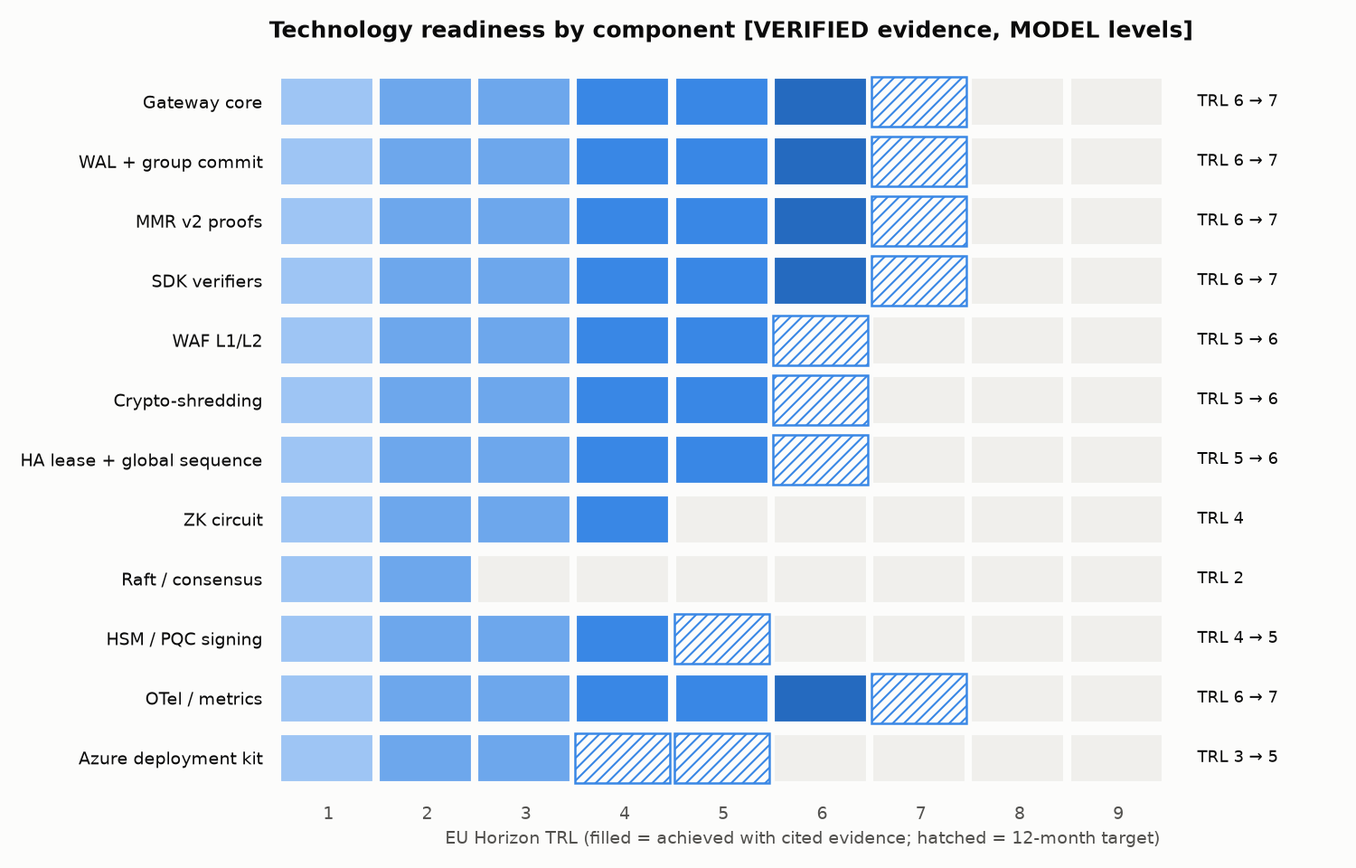
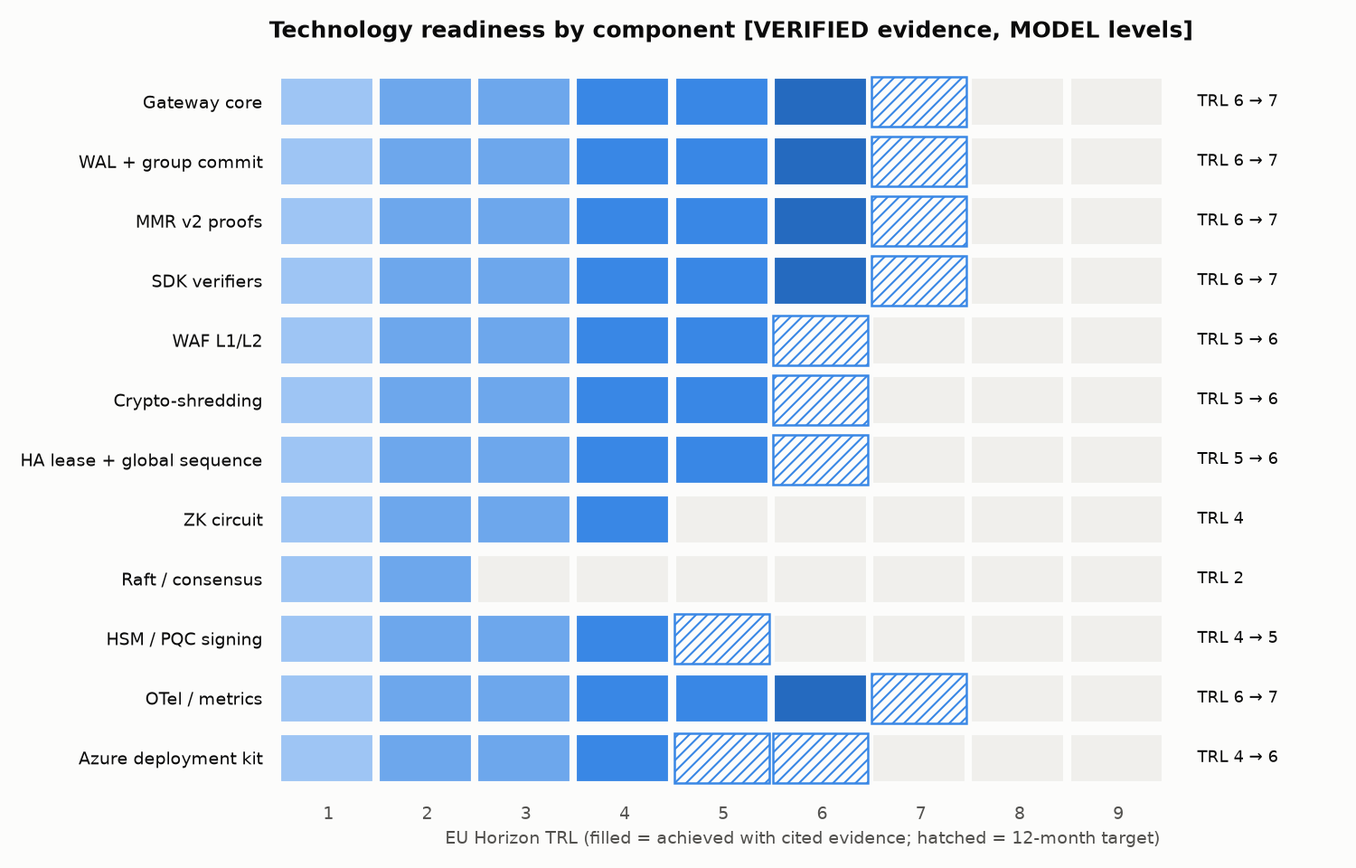
Publish gateway to PyPI; fold PR #208's Azure kit into investor_packs (#209)
* feat(release): publish the gateway to PyPI; investor_packs: fold in the Azure kit (#208)

Publish gateway to PyPI
------------------------
Add .github/workflows/publish_pypi_gateway.yml. Until now no workflow ever
published `aegis-latent-core` (the gateway: aegis + aegis_server +
integrations) to PyPI — publish_pypi.yml only publishes the SDK
(`aegis-latent-sdk`), and release.yml's build-python job builds the gateway
only as a GitHub Release asset. docs/RELEASE_STATUS.md and AGENTS.md record
that gap for 5.0.0 and 5.0.1. This closes it for the next tag: same
provenance/build/publish shape as publish_pypi.yml (signed-tag verification,
version-matches-tag check, twine check, a wheel-install-and-import smoke
test, OIDC trusted publishing), gated on its own `pypi-gateway` GitHub
environment and the existing AEGIS_TRUSTED_PUBLISHING_ENABLED variable.
Requires a PyPI Trusted Publisher for project `aegis-latent-core` pointed at
that environment — a PyPI-side, owner action this workflow cannot perform.

investor_packs: fold in the Azure kit (PR #208)
------------------------------------------------
PR #208 committed deploy/azure/phase0, a VM kit, and one live deployment
and measurement (Standard_B2als_v2, Chile Central, 2026-09-26), closing part
of REG-H07 after both investor packs' §0 was written. Updated in both
languages, from the same engine:
- D2 TRL: "Azure deployment kit" moves from TRL 3 to TRL 4 (now) and target
[…]

Changed region(s): [[0.3987, 0.8438, 0.5213, 0.9062], [0.552, 0.8438, 0.644, 0.9062]]

diff --git a/investor_packs/paquete_inversor_aegis_es/paquete_inversor_aegis.html b/investor_packs/paquete_inversor_aegis_es/paquete_inversor_aegis.html
@@ -231,7 +231,7 @@ details.code code { background: none; padding: 0; font-size: 0.74rem; line-heigh
 <ul>
   <li><strong>El núcleo del gateway queda en 6, no en 7.</strong> La imagen publicada corre con su postura endurecida en CI, pero todavía no existe ningún entorno de cliente.</li>
   <li><strong>“Lease de HA + secuencia global” es una fila nueva, en 5.</strong> La v5.0.1 lo implementa y el CI lo prueba contra Redis y PostgreSQL reales, con un failover por SIGKILL medido en 4,2–5,2 s<span class="chip v" title="VERIFIED (verificado)">V</span> con un lease de 5 s<span class="chip v" title="VERIFIED (verificado)">V</span>. Raft sigue siendo código huérfano, en 2. Esto corrige el “sin HA” del §0 sin afirmar HA de producción (D10.4).</li>
-  <li><strong>El kit de despliegue en Azure queda en 3.</strong> El código de infraestructura de la fase 0 y el archivo de precios que menciona el §0 no están en el repositorio.</li>
+  <li><strong>El kit de despliegue en Azure pasó de 3 a 4.</strong> Desde que se escribió el §0 se incorporaron <code>deploy/azure/phase0</code> y un kit de VM, y se midió un despliegue (Standard_B2als_v2, Chile Central, 26/09/2026): modo estricto activo, <code>verify.sh</code> aprobado, un registro firmado llegó al WAL. Las cifras de US$ 17,54 <span class="ars">(ARS 26.652)</span>/US$ 44,77 <span class="ars">(ARS 68.028)</span> por mes del §0 siguen sin medirse; el precio de lista de la propia VM, US$0,0526<span class="chip v" title="VERIFIED (verificado)">V</span>/hora (≈US$38<span class="chip v" title="VERIFIED (verificado)">V</span>/mes antes del disco), se verificó ese mismo día.</li>
 </ul>
 <div class="tablewrap"><table><caption>D2 Matriz TRL <span class="chip m">M</span></caption>
 <thead><tr><th>Componente</th><th>TRL hoy</th><th>Evidencia</th><th>Brecha a TRL+1</th><th>Semanas de ingeniería</th><th>Externo</th><th>Costo de cierre</th></tr></thead><tbody>
@@ -246,11 +246,11 @@ details.code code { background: none; padding: 0; font-size: 0.74rem; line-heigh
 <tr><td>Raft / consenso</td><td class="num">2</td><td>módulo huérfano; reemplazado por el diseño de lease AD-17</td><td>fuera de la hoja de ruta</td><td class="num">0</td><td class="num">US$ 0<br><span class="ars">(ARS 0,00)</span></td><td class="num">US$ 0<br><span class="ars">(ARS 0,00)</span></td></tr>
 <tr><td>Firma HSM / PQC</td><td class="num">4</td><td>camino PKCS#11; ML-DSA-65 firma en 173 us y verifica en 62 us; Managed HSM excluido: US$ 2.342<br><span class="ars">(ARS 3,6 M)</span> por mes</td><td>prueba de integración con una clave respaldada por HSM en Key Vault Premium</td><td class="num">4</td><td class="num">US$ 500<br><span class="ars">(ARS 759.750)</span></td><td class="num">US$ 9.700<br><span class="ars">(ARS 14,7 M)</span></td></tr>
 <tr><td>OTel / métricas</td><td class="num">6</td><td>/metrics verificado en la imagen publicada por el recolector de evidencia (REG-D86)</td><td>tableros del piloto + runbook de alertas ejercitado</td><td class="num">1</td><td class="num">US$ 0<br><span class="ars">(ARS 0,00)</span></td><td class="num">US$ 2.300<br><span class="ars">(ARS 3,5 M)</span></td></tr>
-<tr><td>Kit de despliegue en Azure</td><td class="num">3</td><td>deploy/azure solo tiene aks/; las salvaguardas de la fase 0 no están en el repositorio (REG-H07)</td><td>IaC de la fase 0 en el repositorio + alertas de presupuesto + la lectura de un despliegue real</td><td class="num">2</td><td class="num">US$ 540<br><span class="ars">(ARS 820.530)</span></td><td class="num">US$ 5.140<br><span class="ars">(ARS 7,8 M)</span></td></tr>
+<tr><td>Kit de despliegue en Azure</td><td class="num">4</td><td>kit de VM desplegado y medido una vez (Standard_B2als_v2, Chile Central, 26/09/2026): modo estricto activo, verify.sh aprobado, un registro firmado confirmado (REG-H07)</td><td>correr phase0_guardrails.sh de punta a punta, observar una alerta de presupuesto disparada, repetir en un segundo tamaño/región</td><td class="num">1</td><td class="num">US$ 200<br><span class="ars">(ARS 303.900)</span></td><td class="num">US$ 2.500<br><span class="ars">(ARS 3,8 M)</span></td></tr>
 </tbody></table></div>
-<p>Cerrar cada brecha hasta el nivel siguiente cuesta US$ 87.540 <span class="ars">(ARS 133 M)</span><span class="chip m" title="MODEL (modelo)">M</span> en 35<span class="chip m" title="MODEL (modelo)">M</span> semanas de ingeniería, sin contar la auditoría diferida del sistema de pruebas ZK (US$ 67.600 <span class="ars">(ARS 103 M)</span><span class="chip m" title="MODEL (modelo)">M</span>). La semana de ingeniería se costea en US$ 2.300 <span class="ars">(ARS 3,5 M)</span><span class="chip m" title="MODEL (modelo)">M</span>.</p>
+<p>Cerrar cada brecha hasta el nivel siguiente cuesta US$ 84.900 <span class="ars">(ARS 129 M)</span><span class="chip m" title="MODEL (modelo)">M</span> en 34<span class="chip m" title="MODEL (modelo)">M</span> semanas de ingeniería, sin contar la auditoría diferida del sistema de pruebas ZK (US$ 67.600 <span class="ars">(ARS 103 M)</span><span class="chip m" title="MODEL (modelo)">M</span>). La semana de ingeniería se costea en US$ 2.300 <span class="ars">(ARS 3,5 M)</span><span class="chip m" title="MODEL (modelo)">M</span>.</p>
 <figure class="plate"><img src="img/04_trl_heatmap.png" alt="Mapa de calor TRL: las celdas llenas son niveles alcanzados con evidencia citada; las rayadas, metas a 12 meses." loading="lazy"><figcaption>Mapa de calor TRL: las celdas llenas son niveles alcanzados con evidencia citada; las rayadas, metas a 12 meses.</figcaption></figure>
-<p class="census"><span class="lbl">Censo de etiquetas</span> <span class="chip v">V</span> 2 · <span class="chip m">M</span> 76 · <span class="chip h">H</span> 0</p>
+<p class="census"><span class="lbl">Censo de etiquetas</span> <span class="chip v">V</span> 4 · <span class="chip m">M</span> 76 · <span class="chip h">H</span> 0</p>
 </section>
 
 <section id="d3">
@@ -321,6 +321,7 @@ details.code code { background: none; padding: 0; font-size: 0.74rem; line-heigh
 <tr><td><code>vm_d4s_v5_hourly_usd</code></td><td class="num">US$ 0,192 <span class="ars">(ARS 291,74)</span></td><td><span class="chip v">V</span></td><td>API Azure Retail Prices, Standard_D4s_v5 Linux, eastus, meterId db8c0962-f3f8-5b44-99aa-f3c7c1e668c8, consultada el 25/09/2026</td></tr>
 <tr><td><code>blob_hot_lrs_gb_month_usd</code></td><td class="num">US$ 0,0208 <span class="ars">(ARS 31,61)</span></td><td><span class="chip v">V</span></td><td>API Azure Retail Prices, Blob Hot LRS, datos almacenados, primer tramo, eastus, meterId 272492b3-1c92-4a5f-bee9-52a8e10ca514, consultada el 25/09/2026</td></tr>
 <tr><td><code>fx_ars_per_usd</code></td><td class="num">1.519,5</td><td><span class="chip v">V</span></td><td>API del BCRA Estadísticas Cambiarias v1.0, Cotizaciones/USD, fecha 24/09/2026 (tipoCotizacion), consultada el 25/09/2026; solo la usa la edición en castellano para mostrar pesos entre paréntesis</td></tr>
+<tr><td><code>azure_b2als_v2_chilecentral_hourly_usd</code></td><td class="num">US$ 0,0526 <span class="ars">(ARS 79,93)</span></td><td><span class="chip v">V</span></td><td>evidence/benchmarks/azure/azure_Standard_B2als_v2_chilecentral_2026-09-26.json (SHA-256 762016d9...); precio de lista obtenido con aegis_azure_kit.py estimate, 26/09/2026; solo la VM, sin el disco adjunto</td></tr>
 <tr><td><code>commits_per_s_100_threads</code></td><td class="num">1.482,37</td><td><span class="chip v">V</span></td><td>evidence/benchmarks/benchmarks_5.0.1_2026-09-24.json, VM compartida de 4 vCPU, commit_forensic con append al MMR + HMAC + fsync del WAL</td></tr>
 <tr><td><code>commit_p50_ms</code></td><td class="num">0,617</td><td><span class="chip v">V</span></td><td>mismo artefacto, n=1000</td></tr>
 <tr><td><code>commit_p99_ms</code></td><td class="num">1,216</td><td><span class="chip v">V</span></td><td>mismo artefacto, n=1000</td></tr>
@@ -452,7 +453,7 @@ details.code code { background: none; padding: 0; font-size: 0.74rem; line-heigh
 <tr><td>P90</td><td class="num">US$ 90,3 mil<br><span class="ars">(ARS 137 M)</span></td><td class="num">US$ 301,5 mil<br><span class="ars">(ARS 458 M)</span></td><td class="num">US$ 653,4 mil<br><span class="ars">(ARS 993 M)</span></td><td class="num">US$ 1,16 M<br><span class="ars">(ARS 1.766 M)</span></td><td class="num">US$ 1,83 M<br><span class="ars">(ARS 2.788 M)</span></td></tr>
 </tbody></table></div>
 <p>La banda de Monte Carlo sortea de forma independiente la conversión, el churn, la expansión, el ACV y el volumen de pilotos, a partir de distribuciones triangulares alrededor del escenario base. Su P10–P90 del AF5, de US$ 0,79–1,83 M <span class="ars">(ARS 1.200–2.781 M)</span><span class="chip m" title="MODEL (modelo)">M</span>, es más angosta que el rango entre el pesimista y el optimista porque cada escenario con nombre lleva todas las palancas a su extremo al mismo tiempo.</p>
-<p class="census"><span class="lbl">Censo de etiquetas</span> <span class="chip v">V</span> 13 · <span class="chip m">M</span> 78 (incl. 1 M·A) · <span class="chip h">H</span> 479</p>
+<p class="census"><span class="lbl">Censo de etiquetas</span> <span class="chip v">V</span> 14 · <span class="chip m">M</span> 78 (incl. 1 M·A) · <span class="chip h">H</span> 479</p>
 </section>
 
 <section id="d5">
@@ -735,6 +736,17 @@ FX_ARS = inp(
     &quot;read 2026-09-25; used only by the Spanish edition to show pesos in parentheses&quot;,
     &quot;API del BCRA Estadísticas Cambiarias v1.0, Cotizaciones/USD, fecha 24/09/2026 (tipoCotizacion), &quot;
     &quot;consultada el 25/09/2026; solo la usa la edición en castellano para mostrar pesos entre paréntesis&quot;,
+)
+AZURE_VM_HOURLY = inp(
+    &quot;azure_b2als_v2_chilecentral_hourly_usd&quot;,
+    0.0526,
+    &quot;VERIFIED&quot;,
+    &quot;evidence/benchmarks/azure/azure_Standard_B2als_v2_chilecentral_2026-09-26.json &quot;
+    &quot;(SHA-256 762016d9...); retail list price fetched via aegis_azure_kit.py estimate, &quot;
+    &quot;2026-09-26; VM only, excludes the attached disk&quot;,
+    &quot;evidence/benchmarks/azure/azure_Standard_B2als_v2_chilecentral_2026-09-26.json &quot;
+    &quot;(SHA-256 762016d9...); precio de lista obtenido con aegis_azure_kit.py estimate, &quot;
+    &quot;26/09/2026; solo la VM, sin el disco adjunto&quot;,
 )
 THROUGHPUT_100T = inp(
     &quot;commits_per_s_100_threads&quot;,
@@ -1805,12 +1817,13 @@ TRL = [
     ),
     (
         &quot;Azure deployment kit&quot;,
-        3,
-        5,
-        &quot;deploy/azure has aks/ only; phase-0 guardrails not in repo (REG-H07)&quot;,
-        &quot;commit phase-0 IaC + budget alerts + one real deployment readback&quot;,
-        2,
-        540,
+        4,
+        6,
+        &quot;VM kit deployed and measured once (Standard_B2als_v2, Chile Central, 2026-09-26): &quot;
+        &quot;strict mode started, verify.sh passed, one signed record committed (REG-H07)&quot;,
+        &quot;run phase0_guardrails.sh end to end, observe a budget alert fire, repeat on a second size/region&quot;,
+        1,
+        200,
     ),
 ]
 TRL_ES = {  # component: (name, evidence, gap); {hsm} is filled at render time
@@ -1871,8 +1884,10 @@ TRL_ES = {  # component: (name, evidence, gap); {hsm} is filled at render time
     ),
     &quot;Azure deployment kit&quot;: (
         &quot;Kit de despliegue en Azure&quot;,
-        &quot;deploy/azure solo tiene aks/; las salvaguardas de la fase 0 no están en el repositorio (REG-H07)&quot;,
-        &quot;IaC de la fase 0 en el repositorio + alertas de presupuesto + la lectura de un despliegue real&quot;,
+        &quot;kit de VM desplegado y medido una vez (Standard_B2als_v2, Chile Central, 26/09/2026): &quot;
+        &quot;modo estricto activo, verify.sh aprobado, un registro firmado confirmado (REG-H07)&quot;,
+        &quot;correr phase0_guardrails.sh de punta a punta, observar una alerta de presupuesto disparada, &quot;
+        &quot;repetir en un segundo tamaño/región&quot;,
     ),
 }
 
@@ -2930,7 +2945,8 @@ if __name__ == &quot;__main__&quot;:
 <tr><td>Registro de marca</td><td class="miss">Falta</td><td>Fundador</td></tr>
 <tr><td>Estados contables y declaraciones impositivas</td><td class="miss">Falta</td><td>Todavía no hay sociedad (M1)</td></tr>
 <tr><td>Seguro de ciberriesgos y de responsabilidad profesional (E&amp;O)</td><td class="miss">Falta</td><td>Presupuestado en US$ 6 mil/año <span class="ars">(ARS 9,1 M/año)</span><span class="chip m" title="MODEL (modelo)">M</span></td></tr>
-<tr><td>Código de infraestructura de la fase 0 de Azure y archivo de precios verificado</td><td class="miss">Falta</td><td>REG-H07</td></tr>
+<tr><td>Script de la fase 0 de Azure y Bicep de presupuesto (<code>deploy/azure/phase0/</code>)</td><td class="ok">Existe</td><td>Incorporado el 26/09/2026; todavía no se corrió de punta a punta, así que ninguna alerta de presupuesto se disparó (REG-H07)</td></tr>
+<tr><td>Consumo mensual de Azure del fundador, verificado (US$ 17.54 <span class="ars">(ARS 2,7 M)</span>/US$ 44.77 <span class="ars">(ARS 6,8 M)</span> en el §0)</td><td class="miss">Falta</td><td>Sigue siendo un dato del fundador sin medir; REG-H07</td></tr>
 <tr><td>Contratos laborales o de locación de servicios</td><td class="miss">Falta</td><td>M3</td></tr>
 </tbody></table></div>
 
@@ -2974,8 +2990,9 @@ if __name__ == &quot;__main__&quot;:
 <tr><td>8</td><td>Ley de IA de la UE: “se aplica el 2/8/2026”</td><td>Correcto, y la fecha ya pasó; existió una propuesta para postergar las obligaciones de alto riesgo (su estado actual no se verificó acá)</td><td>El Marco A se reformula como “ya en marcha”, con un refutador</td></tr>
 <tr><td>9</td><td>Costos de pentest, SOC 2, escrow, abogados y segundo mantenedor</td><td>El repositorio tiene sus propias estimaciones (REG-H01–H05, H10); el segundo mantenedor se modela a US$ 110 mil <span class="ars">(ARS 167 M)</span><span class="chip m" title="MODEL (modelo)">M</span>, por debajo de los US$ 150–250 mil <span class="ars">(ARS 228–380 M)</span><span class="chip m" title="MODEL (modelo)">M</span> del repositorio</td><td>Se usan las estimaciones del repositorio; sensibilidad en D7</td></tr>
 <tr><td>10</td><td>Pedido de la edición en castellano: precios en pesos argentinos entre paréntesis</td><td>La API de Estadísticas Cambiarias del BCRA publica US$ 1 = ARS 1.519,50<span class="chip v" title="VERIFIED (verificado)">V</span> para el 24/09/2026 (respuesta guardada en <code>datos/fx/</code>). Otras cotizaciones de referencia o de mercado, si difieren, darían montos en pesos distintos; no se verificaron acá</td><td>Se usa la cotización del BCRA para todos los montos, sin proyectar inflación ni devaluación. El modelo, los topes y los tramos siguen en dólares</td></tr>
+<tr><td>11</td><td>Kit de despliegue en Azure en TRL 3, sin fase 0 en el repositorio (tal como decía el §0 de este mismo paquete el 25/09/2026)</td><td>Un commit de la misma semana (26/09/2026) agregó <code>deploy/azure/phase0</code> y un kit de VM, y se desplegó y midió una VM (Standard_B2als_v2, Chile Central): modo estricto activo, un registro firmado confirmado. Las cifras propias del fundador de US$ 17.54 <span class="ars">(ARS 2,7 M)</span>/US$ 44.77 <span class="ars">(ARS 6,8 M)</span> por mes no se volvieron a medir</td><td>D2 se actualizó a TRL 4; se muestra el precio de lista verificado de la propia VM, US$0,0526<span class="chip v" title="VERIFIED (verificado)">V</span>/hora, junto a las cifras mensuales que siguen sin verificarse</td></tr>
 </tbody></table></div>
-<p class="census"><span class="lbl">Censo de etiquetas</span> <span class="chip v">V</span> 14 · <span class="chip m">M</span> 14 · <span class="chip h">H</span> 50</p>
+<p class="census"><span class="lbl">Censo de etiquetas</span> <span class="chip v">V</span> 15 · <span class="chip m">M</span> 14 · <span class="chip h">H</span> 50</p>
 </section>
 
 <section id="ask" class="ask">

diff --git a/investor_packs/aegis_investor_pack_en/aegis_investor_pack.html b/investor_packs/aegis_investor_pack_en/aegis_investor_pack.html
@@ -230,7 +230,7 @@ details.code code { background: none; padding: 0; font-size: 0.74rem; line-heigh
 <ul>
   <li><strong>Gateway core sits at 6, not 7.</strong> The shipped image runs its hardened posture in CI, but no customer environment exists yet.</li>
   <li><strong>"HA lease + global sequence" is a new row at 5.</strong> v5.0.1 implements it and CI tests it against real Redis and PostgreSQL, with SIGKILL failover measured at 4.2–5.2 s<span class="chip v" title="VERIFIED">V</span> under a 5 s<span class="chip v" title="VERIFIED">V</span> lease. Raft stays orphan code at 2. This corrects §0's "no HA" without claiming production HA (D10.4).</li>
-  <li><strong>The Azure deployment kit sits at 3.</strong> The phase-0 infrastructure code and price file named in §0 are not in the repository.</li>
+  <li><strong>The Azure deployment kit moved from 3 to 4.</strong> Since §0 was written, <code>deploy/azure/phase0</code> and a VM kit were committed and one deployment was measured (Standard_B2als_v2, Chile Central, 2026-09-26): strict mode started, <code>verify.sh</code> passed, one signed record reached the WAL. The <code>$17.54</code>/<code>$44.77</code> monthly figures from §0 remain unmeasured; the VM's own retail price, $0.0526<span class="chip v" title="VERIFIED">V</span>/hour (≈$38<span class="chip v" title="VERIFIED">V</span>/month before disk), was read back the same day.</li>
 </ul>
 <div class="tablewrap"><table><caption>D2 TRL matrix <span class="chip m">M</span></caption>
 <thead><tr><th>Component</th><th>TRL now</th><th>Evidence</th><th>Gap to TRL+1</th><th>Eng weeks</th><th>External $</th><th>Cost to close</th></tr></thead><tbody>
@@ -245,11 +245,11 @@ details.code code { background: none; padding: 0; font-size: 0.74rem; line-heigh
 <tr><td>Raft / consensus</td><td class="num">2</td><td>orphan module; superseded by AD-17 lease design</td><td>not on roadmap</td><td class="num">0</td><td class="num">$0</td><td class="num">$0</td></tr>
 <tr><td>HSM / PQC signing</td><td class="num">4</td><td>PKCS#11 path; ML-DSA-65 sign 173 us / verify 62 us; Managed HSM excluded ($2,342/mo)</td><td>Key Vault Premium HSM-backed key integration test</td><td class="num">4</td><td class="num">$500</td><td class="num">$9,700</td></tr>
 <tr><td>OTel / metrics</td><td class="num">6</td><td>/metrics verified in the shipped image by the evidence collector (REG-D86)</td><td>pilot dashboards + alert runbook exercised</td><td class="num">1</td><td class="num">$0</td><td class="num">$2,300</td></tr>
-<tr><td>Azure deployment kit</td><td class="num">3</td><td>deploy/azure has aks/ only; phase-0 guardrails not in repo (REG-H07)</td><td>commit phase-0 IaC + budget alerts + one real deployment readback</td><td class="num">2</td><td class="num">$540</td><td class="num">$5,140</td></tr>
+<tr><td>Azure deployment kit</td><td class="num">4</td><td>VM kit deployed and measured once (Standard_B2als_v2, Chile Central, 2026-09-26): strict mode started, verify.sh passed, one signed record committed (REG-H07)</td><td>run phase0_guardrails.sh end to end, observe a budget alert fire, repeat on a second size/region</td><td class="num">1</td><td class="num">$200</td><td class="num">$2,500</td></tr>
 </tbody></table></div>
-<p>Closing every gap to the next level costs $87,540<span class="chip m" title="MODEL">M</span> over 35<span class="chip m" title="MODEL">M</span> engineering weeks, excluding the deferred ZK proving-system audit ($67,600<span class="chip m" title="MODEL">M</span>). The engineering week is costed at $2,300<span class="chip m" title="MODEL">M</span>.</p>
+<p>Closing every gap to the next level costs $84,900<span class="chip m" title="MODEL">M</span> over 34<span class="chip m" title="MODEL">M</span> engineering weeks, excluding the deferred ZK proving-system audit ($67,600<span class="chip m" title="MODEL">M</span>). The engineering week is costed at $2,300<span class="chip m" title="MODEL">M</span>.</p>
 <figure class="plate"><img src="img/04_trl_heatmap.png" alt="TRL heatmap: filled cells are levels achieved with cited evidence; hatched cells are 12-month targets." loading="lazy"><figcaption>TRL heatmap: filled cells are levels achieved with cited evidence; hatched cells are 12-month targets.</figcaption></figure>
-<p class="census"><span class="lbl">Tag census</span> <span class="chip v">V</span> 2 · <span class="chip m">M</span> 52 · <span class="chip h">H</span> 0</p>
+<p class="census"><span class="lbl">Tag census</span> <span class="chip v">V</span> 4 · <span class="chip m">M</span> 52 · <span class="chip h">H</span> 0</p>
 </section>
 
 <section id="d3">
@@ -320,6 +320,7 @@ details.code code { background: none; padding: 0; font-size: 0.74rem; line-heigh
 <tr><td><code>vm_d4s_v5_hourly_usd</code></td><td class="num">0.192</td><td><span class="chip v">V</span></td><td>Azure Retail Prices API, Standard_D4s_v5 Linux, eastus, meterId db8c0962-f3f8-5b44-99aa-f3c7c1e668c8, read 2026-09-25</td></tr>
 <tr><td><code>blob_hot_lrs_gb_month_usd</code></td><td class="num">0.0208</td><td><span class="chip v">V</span></td><td>Azure Retail Prices API, Blob Hot LRS data stored, first tier, eastus, meterId 272492b3-1c92-4a5f-bee9-52a8e10ca514, read 2026-09-25</td></tr>
 <tr><td><code>fx_ars_per_usd</code></td><td class="num">1,519.5</td><td><span class="chip v">V</span></td><td>BCRA API Estadisticas Cambiarias v1.0, Cotizaciones/USD, date 2026-09-24 (tipoCotizacion), read 2026-09-25; used only by the Spanish edition to show pesos in parentheses</td></tr>
+<tr><td><code>azure_b2als_v2_chilecentral_hourly_usd</code></td><td class="num">0.0526</td><td><span class="chip v">V</span></td><td>evidence/benchmarks/azure/azure_Standard_B2als_v2_chilecentral_2026-09-26.json (SHA-256 762016d9...); retail list price fetched via aegis_azure_kit.py estimate, 2026-09-26; VM only, excludes the attached disk</td></tr>
 <tr><td><code>commits_per_s_100_threads</code></td><td class="num">1,482.37</td><td><span class="chip v">V</span></td><td>evidence/benchmarks/benchmarks_5.0.1_2026-09-24.json, 4 vCPU shared VM, commit_forensic incl. MMR append + HMAC + WAL fsync</td></tr>
 <tr><td><code>commit_p50_ms</code></td><td class="num">0.617</td><td><span class="chip v">V</span></td><td>same artifact, n=1000</td></tr>
 <tr><td><code>commit_p99_ms</code></td><td class="num">1.216</td><td><span class="chip v">V</span></td><td>same artifact, n=1000</td></tr>
@@ -451,7 +452,7 @@ details.code code { background: none; padding: 0; font-size: 0.74rem; line-heigh
 <tr><td>P90</td><td class="num">90.3k</td><td class="num">301.5k</td><td class="num">653.4k</td><td class="num">1.16M</td><td class="num">1.83M</td></tr>
 </tbody></table></div>
 <p>The Monte Carlo band draws conversion, churn, expansion, ACV and pilot volume independently from triangular distributions around the base. Its FY5 P10–P90 of $0.79–1.83M<span class="chip m" title="MODEL">M</span> is narrower than the bear-to-bull span because each named scenario moves every lever to its extreme at once.</p>
-<p class="census"><span class="lbl">Tag census</span> <span class="chip v">V</span> 13 · <span class="chip m">M</span> 63 (incl. 1 M·A) · <span class="chip h">H</span> 307</p>
+<p class="census"><span class="lbl">Tag census</span> <span class="chip v">V</span> 14 · <span class="chip m">M</span> 63 (incl. 1 M·A) · <span class="chip h">H</span> 307</p>
 </section>
 
 <section id="d5">
@@ -734,6 +735,17 @@ FX_ARS = inp(
     &quot;read 2026-09-25; used only by the Spanish edition to show pesos in parentheses&quot;,
     &quot;API del BCRA Estadísticas Cambiarias v1.0, Cotizaciones/USD, fecha 24/09/2026 (tipoCotizacion), &quot;
     &quot;consultada el 25/09/2026; solo la usa la edición en castellano para mostrar pesos entre paréntesis&quot;,
+)
+AZURE_VM_HOURLY = inp(
+    &quot;azure_b2als_v2_chilecentral_hourly_usd&quot;,
+    0.0526,
+    &quot;VERIFIED&quot;,
+    &quot;evidence/benchmarks/azure/azure_Standard_B2als_v2_chilecentral_2026-09-26.json &quot;
+    &quot;(SHA-256 762016d9...); retail list price fetched via aegis_azure_kit.py estimate, &quot;
+    &quot;2026-09-26; VM only, excludes the attached disk&quot;,
+    &quot;evidence/benchmarks/azure/azure_Standard_B2als_v2_chilecentral_2026-09-26.json &quot;
+    &quot;(SHA-256 762016d9...); precio de lista obtenido con aegis_azure_kit.py estimate, &quot;
+    &quot;26/09/2026; solo la VM, sin el disco adjunto&quot;,
 )
 THROUGHPUT_100T = inp(
     &quot;commits_per_s_100_threads&quot;,
@@ -1804,12 +1816,13 @@ TRL = [
     ),
     (
         &quot;Azure deployment kit&quot;,
-        3,
-        5,
-        &quot;deploy/azure has aks/ only; phase-0 guardrails not in repo (REG-H07)&quot;,
-        &quot;commit phase-0 IaC + budget alerts + one real deployment readback&quot;,
-        2,
-        540,
+        4,
+        6,
+        &quot;VM kit deployed and measured once (Standard_B2als_v2, Chile Central, 2026-09-26): &quot;
+        &quot;strict mode started, verify.sh passed, one signed record committed (REG-H07)&quot;,
+        &quot;run phase0_guardrails.sh end to end, observe a budget alert fire, repeat on a second size/region&quot;,
+        1,
+        200,
     ),
 ]
 TRL_ES = {  # component: (name, evidence, gap); {hsm} is filled at render time
@@ -1870,8 +1883,10 @@ TRL_ES = {  # component: (name, evidence, gap); {hsm} is filled at render time
     ),
     &quot;Azure deployment kit&quot;: (
         &quot;Kit de despliegue en Azure&quot;,
-        &quot;deploy/azure solo tiene aks/; las salvaguardas de la fase 0 no están en el repositorio (REG-H07)&quot;,
-        &quot;IaC de la fase 0 en el repositorio + alertas de presupuesto + la lectura de un despliegue real&quot;,
+        &quot;kit de VM desplegado y medido una vez (Standard_B2als_v2, Chile Central, 26/09/2026): &quot;
+        &quot;modo estricto activo, verify.sh aprobado, un registro firmado confirmado (REG-H07)&quot;,
+        &quot;correr phase0_guardrails.sh de punta a punta, observar una alerta de presupuesto disparada, &quot;
+        &quot;repetir en un segundo tamaño/región&quot;,
     ),
 }
 
@@ -2928,7 +2943,8 @@ if __name__ == &quot;__main__&quot;:
 <tr><td>Trademark registration</td><td class="miss">Missing</td><td>Founder</td></tr>
 <tr><td>Financial statements and tax filings</td><td class="miss">Missing</td><td>No company yet (M1)</td></tr>
 <tr><td>Cyber and E&amp;O insurance</td><td class="miss">Missing</td><td>Budgeted $6k/yr<span class="chip m" title="MODEL">M</span></td></tr>
-<tr><td>Azure phase-0 infrastructure code and verified price file</td><td class="miss">Missing</td><td>REG-H07</td></tr>
+<tr><td>Azure phase-0 script and budget Bicep (<code>deploy/azure/phase0/</code>)</td><td class="ok">Exists</td><td>Committed 2026-09-26; not yet run end to end, so no budget alert has fired (REG-H07)</td></tr>
+<tr><td>Founder's own monthly Azure burn, verified ($17.54/$44.77 in §0)</td><td class="miss">Missing</td><td>Still owner-supplied and unmeasured; REG-H07</td></tr>
 <tr><td>Employment or contractor agreements</td><td class="miss">Missing</td><td>M3</td></tr>
 </tbody></table></div>
 
@@ -2971,8 +2987,9 @@ if __name__ == &quot;__main__&quot;:
 <tr><td>7</td><td>[AUDIT] seed band $8–15M today</td><td>This pack's methods: $0–3.2M<span class="chip m" title="MODEL">M</span> cash-flow, $6.2–10.8M<span class="chip m" title="MODEL">M</span> market</td><td>Both shown. T1 cap at $6M<span class="chip m" title="MODEL">M</span> (haircut-now value); $8M<span class="chip m" title="MODEL">M</span> only once revenue exists (T2)</td></tr>
 <tr><td>8</td><td>EU AI Act "applies 2 Aug 2026"</td><td>Correct, and the date is now past; a proposal to postpone high-risk obligations existed (current status not verified here)</td><td>Frame A restated as "already running", with a falsifier</td></tr>
 <tr><td>9</td><td>Costs of pen test, SOC 2, escrow, counsel, second maintainer</td><td>The repository carries its own estimates (REG-H01–H05, H10); the second maintainer is modelled at $110k<span class="chip m" title="MODEL">M</span>, below the repo's $150–250k<span class="chip m" title="MODEL">M</span></td><td>Repo estimates used; sensitivity in D7</td></tr>
+<tr><td>10</td><td>Azure deployment kit at TRL 3, phase-0 not in repository (as this pack's own §0 stated 25 Sep 2026)</td><td>A same-week commit (2026-09-26) added <code>deploy/azure/phase0</code> and a VM kit, and deployed and measured one VM (Standard_B2als_v2, Chile Central): strict mode started, one signed record committed. The founder's own $17.54/$44.77 monthly figures were not remeasured</td><td>D2 updated to TRL 4; the VM's own verified retail price, $0.0526<span class="chip v" title="VERIFIED">V</span>/hour, is shown alongside the still-unverified monthly figures</td></tr>
 </tbody></table></div>
-<p class="census"><span class="lbl">Tag census</span> <span class="chip v">V</span> 13 · <span class="chip m">M</span> 14 · <span class="chip h">H</span> 50</p>
+<p class="census"><span class="lbl">Tag census</span> <span class="chip v">V</span> 14 · <span class="chip m">M</span> 14 · <span class="chip h">H</span> 50</p>
 </section>
 
 <section id="ask" class="ask">

diff --git a/investor_packs/aegis_investor_pack_en/engine/aegis_financial_engine.py b/investor_packs/aegis_investor_pack_en/engine/aegis_financial_engine.py
@@ -100,6 +100,17 @@ FX_ARS = inp(
     "API del BCRA Estadísticas Cambiarias v1.0, Cotizaciones/USD, fecha 24/09/2026 (tipoCotizacion), "
     "consultada el 25/09/2026; solo la usa la edición en castellano para mostrar pesos entre paréntesis",
 )
+AZURE_VM_HOURLY = inp(
+    "azure_b2als_v2_chilecentral_hourly_usd",
+    0.0526,
+    "VERIFIED",
+    "evidence/benchmarks/azure/azure_Standard_B2als_v2_chilecentral_2026-09-26.json "
+    "(SHA-256 762016d9...); retail list price fetched via aegis_azure_kit.py estimate, "
+    "2026-09-26; VM only, excludes the attached disk",
+    "evidence/benchmarks/azure/azure_Standard_B2als_v2_chilecentral_2026-09-26.json "
+    "(SHA-256 762016d9...); precio de lista obtenido con aegis_azure_kit.py estimate, "
+    "26/09/2026; solo la VM, sin el disco adjunto",
+)
 THROUGHPUT_100T = inp(
     "commits_per_s_100_threads",
     1482.37,
@@ -1169,12 +1180,13 @@ TRL = [
     ),
     (
         "Azure deployment kit",
-        3,
-        5,
-        "deploy/azure has aks/ only; phase-0 guardrails not in repo (REG-H07)",
-        "commit phase-0 IaC + budget alerts + one real deployment readback",
-        2,
-        540,
+        4,
+        6,
+        "VM kit deployed and measured once (Standard_B2als_v2, Chile Central, 2026-09-26): "
+        "strict mode started, verify.sh passed, one signed record committed (REG-H07)",
+        "run phase0_guardrails.sh end to end, observe a budget alert fire, repeat on a second size/region",
+        1,
+        200,
     ),
 ]
 TRL_ES = {  # component: (name, evidence, gap); {hsm} is filled at render time
@@ -1235,8 +1247,10 @@ TRL_ES = {  # component: (name, evidence, gap); {hsm} is filled at render time
     ),
     "Azure deployment kit": (
         "Kit de despliegue en Azure",
-        "deploy/azure solo tiene aks/; las salvaguardas de la fase 0 no están en el repositorio (REG-H07)",
-        "IaC de la fase 0 en el repositorio + alertas de presupuesto + la lectura de un despliegue real",
+        "kit de VM desplegado y medido una vez (Standard_B2als_v2, Chile Central, 26/09/2026): "
+        "modo estricto activo, verify.sh aprobado, un registro firmado confirmado (REG-H07)",
+        "correr phase0_guardrails.sh de punta a punta, observar una alerta de presupuesto disparada, "
+        "repetir en un segundo tamaño/región",
     ),
 }
 

diff --git a/investor_packs/paquete_inversor_aegis_es/motor/aegis_financial_engine.py b/investor_packs/paquete_inversor_aegis_es/motor/aegis_financial_engine.py
@@ -100,6 +100,17 @@ FX_ARS = inp(
     "API del BCRA Estadísticas Cambiarias v1.0, Cotizaciones/USD, fecha 24/09/2026 (tipoCotizacion), "
     "consultada el 25/09/2026; solo la usa la edición en castellano para mostrar pesos entre paréntesis",
 )
+AZURE_VM_HOURLY = inp(
+    "azure_b2als_v2_chilecentral_hourly_usd",
+    0.0526,
+    "VERIFIED",
+    "evidence/benchmarks/azure/azure_Standard_B2als_v2_chilecentral_2026-09-26.json "
+    "(SHA-256 762016d9...); retail list price fetched via aegis_azure_kit.py estimate, "
+    "2026-09-26; VM only, excludes the attached disk",
+    "evidence/benchmarks/azure/azure_Standard_B2als_v2_chilecentral_2026-09-26.json "
+    "(SHA-256 762016d9...); precio de lista obtenido con aegis_azure_kit.py estimate, "
+    "26/09/2026; solo la VM, sin el disco adjunto",
+)
 THROUGHPUT_100T = inp(
     "commits_per_s_100_threads",
     1482.37,
@@ -1169,12 +1180,13 @@ TRL = [
     ),
     (
         "Azure deployment kit",
-        3,
-        5,
-        "deploy/azure has aks/ only; phase-0 guardrails not in repo (REG-H07)",
-        "commit phase-0 IaC + budget alerts + one real deployment readback",
-        2,
-        540,
+        4,
+        6,
+        "VM kit deployed and measured once (Standard_B2als_v2, Chile Central, 2026-09-26): "
+        "strict mode started, verify.sh passed, one signed record committed (REG-H07)",
+        "run phase0_guardrails.sh end to end, observe a budget alert fire, repeat on a second size/region",
+        1,
+        200,
     ),
 ]
 TRL_ES = {  # component: (name, evidence, gap); {hsm} is filled at render time
@@ -1235,8 +1247,10 @@ TRL_ES = {  # component: (name, evidence, gap); {hsm} is filled at render time
     ),
     "Azure deployment kit": (
         "Kit de despliegue en Azure",
-        "deploy/azure solo tiene aks/; las salvaguardas de la fase 0 no están en el repositorio (REG-H07)",
-        "IaC de la fase 0 en el repositorio + alertas de presupuesto + la lectura de un despliegue real",
+        "kit de VM desplegado y medido una vez (Standard_B2als_v2, Chile Central, 26/09/2026): "
+        "modo estricto activo, verify.sh aprobado, un registro firmado confirmado (REG-H07)",
+        "correr phase0_guardrails.sh de punta a punta, observar una alerta de presupuesto disparada, "
+        "repetir en un segundo tamaño/región",
     ),
 }
 

diff --git a/tests/test_ai_context.py b/tests/test_ai_context.py
@@ -225,6 +225,7 @@ def test_workflow_roles_and_publication_boundaries_match_source() -> None:
         "publish_npm.yml",
         "publish_oci.yml",
         "publish_pypi.yml",
+        "publish_pypi_gateway.yml",
         "release.yml",
         "security.yml",
     }

diff --git a/.aegis_ai_context/08_COMPONENT_PACKAGE_WORKFLOW_MATRIX.md b/.aegis_ai_context/08_COMPONENT_PACKAGE_WORKFLOW_MATRIX.md
@@ -43,6 +43,7 @@ The authoritative loader is `_load_versions` in [`scripts/verify_release_contrac
 | [`publish.yml`](../.github/workflows/publish.yml) | Compatibility package construction | Explicitly build-validation-only: no tag trigger, OIDC write, upload, or release command. |
 | [`publish_oci.yml`](../.github/workflows/publish_oci.yml) | Publish linux/amd64 and linux/arm64 gateway and dashboard images to GHCR | Configured to push both images, attest each digest, and keyless-sign each digest with Sigstore; this mechanism is not evidence that a run or external publication succeeded. |
 | [`publish_pypi.yml`](../.github/workflows/publish_pypi.yml) | Build Python SDK and conditionally publish exact artifacts | Requires a matching signed tag, main ancestry, `pypi` environment, OIDC, and `AEGIS_TRUSTED_PUBLISHING_ENABLED == 'true'`; observed PyPI 4.0.0 existence is not proof this workflow succeeded. |
+| [`publish_pypi_gateway.yml`](../.github/workflows/publish_pypi_gateway.yml) | Build the gateway package (`aegis-latent-core`: aegis + aegis_server + integrations) and conditionally publish exact artifacts | Requires a matching signed tag, main ancestry, a separate `pypi-gateway` environment, OIDC, and `AEGIS_TRUSTED_PUBLISHING_ENABLED == 'true'`; added 2026-09-26, never yet dispatched, so no run has been observed to succeed or fail. The most recently published `aegis-latent-core` on PyPI is still `4.1.2` and stays so until this workflow runs and its own PyPI Trusted Publisher (a PyPI-side action outside this repo) is configured. |
 | [`publish_npm.yml`](../.github/workflows/publish_npm.yml) | Build TypeScript SDK and conditionally publish exact package with provenance | Requires a matching signed tag, main ancestry, `npm` environment, OIDC, and `AEGIS_TRUSTED_PUBLISHING_ENABLED == 'true'`; observed npm `4.0.0` existence is not proof this workflow succeeded. Its `4.1.2` run reached the publish step and failed there. |
 | [`release.yml`](../.github/workflows/release.yml) | Validate tag, build assets, attest, and create a new GitHub Release | Source contract only. Public v4.0.1 exists at a lightweight tag, so it does not satisfy the workflow's signed-annotated-tag contract and must not be attributed to that workflow. |
 | [`security.yml`](../.github/workflows/security.yml) | CodeQL, Bandit, dependency/container/OSV/Cargo audits | Findings are scoped workflow evidence, not a vulnerability-absence or publication claim. |

diff --git a/investor_packs/paquete_inversor_aegis_es/README.md b/investor_packs/paquete_inversor_aegis_es/README.md
@@ -54,5 +54,6 @@ Con numpy 2.4.6, matplotlib 3.11.2 y Python 3.11, el motor reprodujo byte a byte
 - **Etiquetas.** Cada cifra lleva una etiqueta, cuyo nombre se mantiene en inglés como lo pide la misión. VERIFIED significa leída de una fuente primaria o de un artefacto conservado. MODEL es un supuesto explicitado en el texto. HYPOTHESIS no está probada, y el experimento que la valida está en D10. Cada entregable termina con un censo de sus etiquetas.
 - **Idioma del código.** El código y sus comentarios están en inglés. Los textos en castellano de los gráficos y las tablas están dentro del mismo script, detrás de `--lang es`.
 - **Sin conexión.** La página carga sus tipografías desde Google Fonts y dibuja sus dos diagramas con Mermaid desde jsDelivr. Sin conexión, las tipografías pasan a las del sistema y los diagramas se ven como su texto fuente.
-- **Lo que este paquete no afirma.** Ninguna certificación, cumplimiento legal, admisibilidad judicial, preparación o capacidad de producción, ni aseguramiento externo. El registro de conflictos de D10.4 anota cada insumo recibido que se corrigió o se bajó de categoría, incluida la cotización usada para los pesos (fila 10).
+- **Lo que este paquete no afirma.** Ninguna certificación, cumplimiento legal, admisibilidad judicial, preparación o capacidad de producción, ni aseguramiento externo. El registro de conflictos de D10.4 anota cada insumo recibido que se corrigió o se bajó de categoría, incluida la cotización usada para los pesos (fila 10) y la actualización del kit de Azure (fila 11).
+- **Cambios en el motor.** 26/09/2026: se actualizó la fila TRL "Kit de despliegue en Azure" y su costo total de cierre para reflejar el commit de la misma semana del kit de Azure (<code>deploy/azure/phase0</code>, un despliegue y una medición de una VM real); un nuevo insumo VERIFIED, <code>azure_b2als_v2_chilecentral_hourly_usd</code>, registra el precio de lista de esa VM. El consumo mensual de Azure del propio fundador (US$17,54/US$44,77 en la fila 1 de D10.4) sigue sin medirse.
 - **Manejo.** Son materiales de búsqueda de inversión, incorporados al repositorio `aegis-latent-core` a pedido del titular el 25/09/2026. No son documentación del producto: la única fuente de afirmaciones sobre las capacidades del producto sigue siendo `docs/CLAIMS_MATRIX.md`.

diff --git a/investor_packs/aegis_investor_pack_en/README.md b/investor_packs/aegis_investor_pack_en/README.md
@@ -38,5 +38,5 @@ With numpy 2.4.6, matplotlib 3.11.2 and Python 3.11, the engine reproduced every
 - **Chart rules.** The engine is the only chart source: matplotlib with the Agg backend and seed 42.
 - **Offline.** The page loads its fonts from Google Fonts and draws its two diagrams with Mermaid from jsDelivr. Without a network connection, the fonts fall back to system fonts and the diagrams appear as their source text.
 - **What this pack does not claim.** No certification, legal compliance, court admissibility, production readiness or capacity, or external assurance. The conflict log in D10.4 records every supplied input that was corrected or downgraded.
-- **Engine change on 2026-09-25.** A `--lang es` switch and one input, `fx_ars_per_usd`, were added for the Spanish edition. The English charts and tables were checked byte-identical to the versions before the change.
+- **Engine changes.** 2026-09-25: a `--lang es` switch and one input, `fx_ars_per_usd`, were added for the Spanish edition; the English charts and tables were checked byte-identical to the versions before the change. 2026-09-26: the "Azure deployment kit" TRL row and its cost-to-close total were updated to reflect the same-week Azure deployment kit commit (`deploy/azure/phase0`, one live VM deployment and measurement); a new VERIFIED input, `azure_b2als_v2_chilecentral_hourly_usd`, records that VM's own retail price. The founder's own monthly Azure burn ($17.54/$44.77 in D10.4 row 1) remains unmeasured; see D10.4 row 10.
 - **Handling.** These are fundraising materials, committed to the `aegis-latent-core` repository at the owner's request on 2026-09-25. They are not product documentation; `docs/CLAIMS_MATRIX.md` remains the only source of product capability claims.

diff --git a/investor_packs/paquete_inversor_aegis_es/datos/model_tables.md b/investor_packs/paquete_inversor_aegis_es/datos/model_tables.md
@@ -202,7 +202,7 @@
 | Raft / consenso | 2 | módulo huérfano; reemplazado por el diseño de lease AD-17 | fuera de la hoja de ruta | 0 | US$ 0 (ARS 0,00) | US$ 0 (ARS 0,00) |
 | Firma HSM / PQC | 4 | camino PKCS#11; ML-DSA-65 firma en 173 us y verifica en 62 us; Managed HSM excluido: US$ 2.342 (ARS 3,6 M) por mes | prueba de integración con una clave respaldada por HSM en Key Vault Premium | 4 | US$ 500 (ARS 759.750) | US$ 9.700 (ARS 14,7 M) |
 | OTel / métricas | 6 | /metrics verificado en la imagen publicada por el recolector de evidencia (REG-D86) | tableros del piloto + runbook de alertas ejercitado | 1 | US$ 0 (ARS 0,00) | US$ 2.300 (ARS 3,5 M) |
-| Kit de despliegue en Azure | 3 | deploy/azure solo tiene aks/; las salvaguardas de la fase 0 no están en el repositorio (REG-H07) | IaC de la fase 0 en el repositorio + alertas de presupuesto + la lectura de un despliegue real | 2 | US$ 540 (ARS 820.530) | US$ 5.140 (ARS 7,8 M) |
+| Kit de despliegue en Azure | 4 | kit de VM desplegado y medido una vez (Standard_B2als_v2, Chile Central, 26/09/2026): modo estricto activo, verify.sh aprobado, un registro firmado confirmado (REG-H07) | correr phase0_guardrails.sh de punta a punta, observar una alerta de presupuesto disparada, repetir en un segundo tamaño/región | 1 | US$ 200 (ARS 303.900) | US$ 2.500 (ARS 3,8 M) |
 
 ### Monte Carlo: percentiles de ARR (semilla 42, n=5.000)
 | Percentil | AF1 | AF2 | AF3 | AF4 | AF5 |

diff --git a/investor_packs/aegis_investor_pack_en/data/model_tables.md b/investor_packs/aegis_investor_pack_en/data/model_tables.md
@@ -202,7 +202,7 @@
 | Raft / consensus | 2 | orphan module; superseded by AD-17 lease design | not on roadmap | 0 | $0 | $0 |
 | HSM / PQC signing | 4 | PKCS#11 path; ML-DSA-65 sign 173 us / verify 62 us; Managed HSM excluded ($2,342/mo) | Key Vault Premium HSM-backed key integration test | 4 | $500 | $9,700 |
 | OTel / metrics | 6 | /metrics verified in the shipped image by the evidence collector (REG-D86) | pilot dashboards + alert runbook exercised | 1 | $0 | $2,300 |
-| Azure deployment kit | 3 | deploy/azure has aks/ only; phase-0 guardrails not in repo (REG-H07) | commit phase-0 IaC + budget alerts + one real deployment readback | 2 | $540 | $5,140 |
+| Azure deployment kit | 4 | VM kit deployed and measured once (Standard_B2als_v2, Chile Central, 2026-09-26): strict mode started, verify.sh passed, one signed record committed (REG-H07) | run phase0_guardrails.sh end to end, observe a budget alert fire, repeat on a second size/region | 1 | $200 | $2,500 |
 
 ### Monte Carlo ARR percentiles (seed 42, n=5,000)
 | Percentile | FY1 | FY2 | FY3 | FY4 | FY5 |
